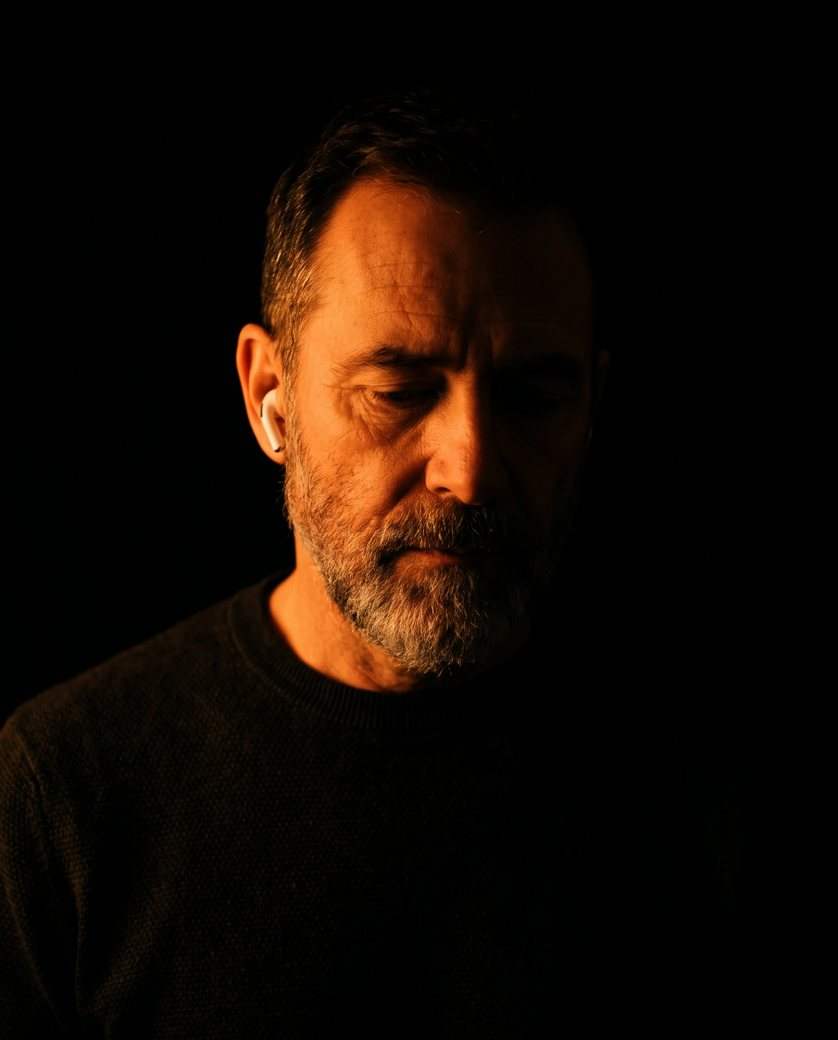
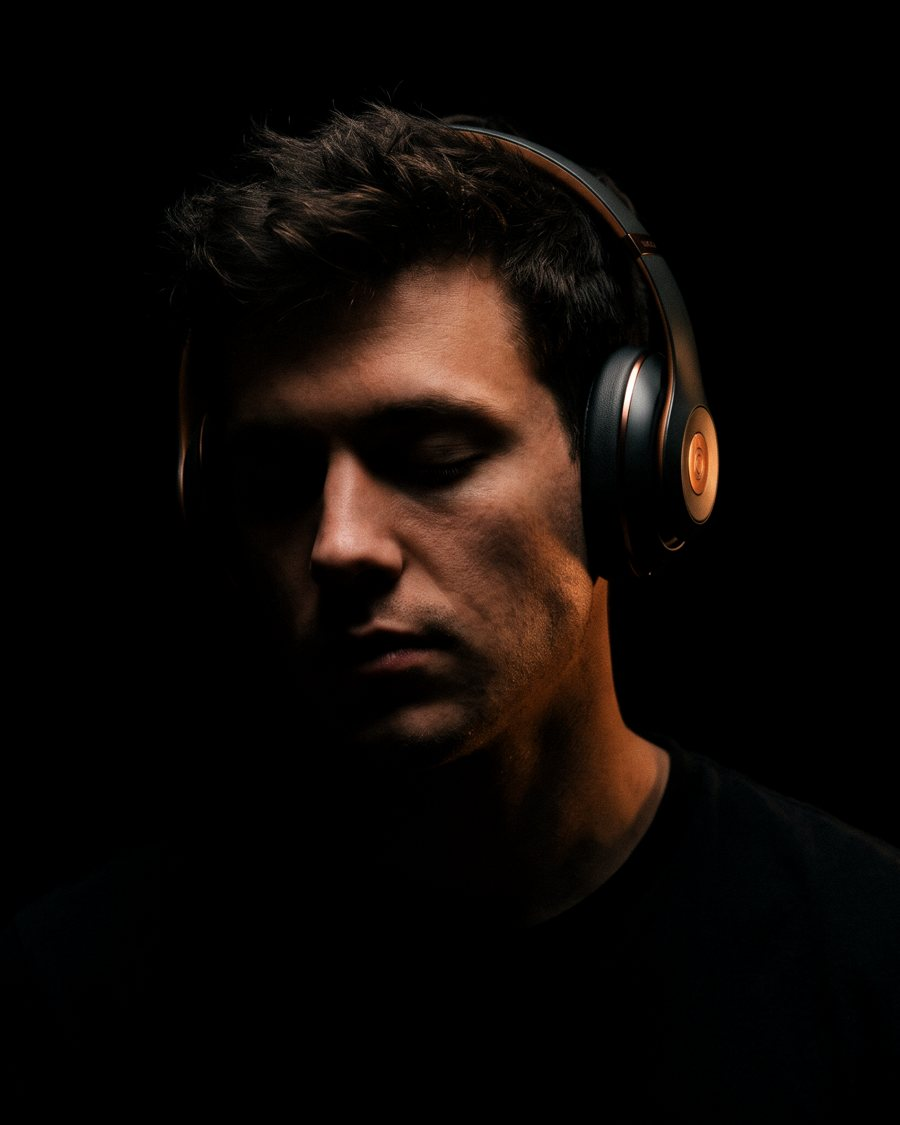
landing: style pass with same-kind original imagery and heavier display type
Claude-Session: https://claude.ai/code/session_014KKccVSMXmUfLjUq5WpadJ

diff --git a/landing/src/App.jsx b/landing/src/App.jsx
@@ -142,25 +142,47 @@ function Dock() {
   );
 }
 
-const PALETTE = ['#e9e3d6', '#3a6df0', '#d84a3a', '#f2c94c', '#7c5cff', '#2bb673', '#ff7a1a', '#14a3c7', '#b83280', '#9aa5b1', '#56ccf2', '#c0392b'];
+const PALETTE = ['#e9e3d6', '#3a6df0', '#d84a3a', '#f2c94c', '#7c5cff', '#2bb673', '#ff7a1a', '#14a3c7', '#b83280', '#9aa5b1', '#56ccf2', '#c0392b', '#111111', '#f5f5f5'];
+// Original marks for the integration chips (abstract shapes, not real brand logos).
+const MARKS = [
+  (c) => <circle cx="12" cy="12" r="5" fill={c} />,
+  (c) => <path d="M12 6 18 17H6Z" fill={c} />,
+  (c) => <rect x="7" y="7" width="10" height="10" rx="2.5" fill={c} />,
+  (c) => <path d="M5 14c2.5-5 4.5-5 7 0s4.5 5 7 0" stroke={c} strokeWidth="2.4" fill="none" strokeLinecap="round" />,
+  (c) => <path d="M7 17V9M12 17V6M17 17v-5" stroke={c} strokeWidth="2.6" strokeLinecap="round" />,
+  (c) => <circle cx="12" cy="12" r="5.5" stroke={c} strokeWidth="2.6" fill="none" />,
+  (c) => <path d="M12 5.5l1.9 4.3 4.6.4-3.5 3 1.1 4.6L12 15.4 7.9 17.8 9 13.2l-3.5-3 4.6-.4z" fill={c} />,
+  (c) => <path d="M6 12h12M12 6v12" stroke={c} strokeWidth="2.6" strokeLinecap="round" />,
+  (c) => <path d="M6.5 16.5 17.5 7.5M6.5 7.5h5M12.5 16.5h5" stroke={c} strokeWidth="2.4" strokeLinecap="round" />,
+  (c) => <path d="M12 5a7 7 0 1 0 7 7h-7z" fill={c} />,
+];
+const TOOLS = [I.Calendar, I.Inbox, I.Bookmark, I.Compass, I.Mic, I.Gear, I.Home, I.Search, I.Sparkle];
 function Orbit({ ring }) {
-  const rows = [
-    [200, 5], [0, 7], [56, 13], [112, 15], [168, 15], [224, 15], [280, 13], [336, 11], [392, 7],
-  ];
+  const rows = [[0, 9], [56, 13], [112, 15], [168, 15], [224, 15], [280, 13], [336, 11], [392, 7]];
   let seed = 7;
   const rnd = () => (seed = (seed * 9301 + 49297) % 233280) / 233280;
-  const glyphs = 'ABDEFGHJKMNPRSTVWXZ';
   return (
     <div className="orbit" aria-hidden="true">
-      {rows.map(([top, n], r) => (
-        <div className="orbit-row" key={r} style={{ top: r === 0 ? 0 : top }}>
-          {Array.from({ length: n }, (_, k) => {
-            const c = PALETTE[Math.floor(rnd() * PALETTE.length)];
-            const g = glyphs[Math.floor(rnd() * glyphs.length)];
-            return <div className="chip" key={k}><i style={{ background: c, color: c === '#e9e3d6' || c === '#f2c94c' ? '#111' : '#fff' }}>{g}</i><span /></div>;
-          })}
-        </div>
-      ))}
+      {rows.map(([top, n], r) => {
+        const Tool = TOOLS[r % TOOLS.length];
+        return (
+          <div className="orbit-row" key={r} style={{ top }}>
+            {Array.from({ length: n }, (_, k) => {
+              const bg = PALETTE[Math.floor(rnd() * PALETTE.length)];
+              const light = ['#e9e3d6', '#f2c94c', '#f5f5f5', '#56ccf2'].includes(bg);
+              const mark = MARKS[Math.floor(rnd() * MARKS.length)];
+              return (
+                <div className="chip" key={k}>
+                  <i style={{ background: `radial-gradient(circle at 35% 30%, ${bg}, color-mix(in srgb, ${bg} 70%, #000))` }}>
+                    <svg width="18" height="18" viewBox="0 0 24 24">{mark(light ? '#121212' : '#ffffff')}</svg>
+                  </i>
+                  <b><Tool size={13} /></b>
+                </div>
+              );
+            })}
+          </div>
+        );
+      })}
       <div className="ring" style={{ '--ring': ring }}><div className="ring-core"><I.Logo /></div></div>
     </div>
   );
@@ -221,7 +243,7 @@ function Monitor() {
         <p className="lede reveal">Navi lays fixed commitments and flexible work side by side, so focus time and rest both land on the calendar early.</p>
         <div className="monitor reveal">
           <div className="mon-bezel">
-            <div className="mon-screen" style={{ backgroundImage: `url(${img('wall-lake.jpg')})` }}>
+            <div className="mon-screen" style={{ backgroundImage: `url(${img('wall-highland.jpg')})` }}>
               <div className="mon-menubar"><b>Navi</b><span>File</span><span>Edit</span><span>View</span><span>Window</span><span>Help</span><span style={{ marginLeft: 'auto' }}>Tue Nov 4 9:41 AM</span></div>
               <div className="mon-window"><WeekWindow /></div>
             </div>

diff --git a/landing/src/styles.css b/landing/src/styles.css
@@ -51,8 +51,8 @@ img { display: block; max-width: 100%; }
   margin: 0;
   font-size: 48px;
   line-height: 1.1;
-  font-weight: 600;
-  letter-spacing: -0.022em;
+  font-weight: 660;
+  letter-spacing: -0.026em;
   background: var(--grad-head);
   -webkit-background-clip: text;
   background-clip: text;
@@ -126,7 +126,7 @@ img { display: block; max-width: 100%; }
 /* ---------- Dock ---------- */
 .dock-sec { position: relative; padding-top: 215px; height: 1020px; }
 .dock-stage { position: relative; height: 740px; margin-top: 0; }
-.sculpture { position: absolute; left: 50%; top: 33px; width: 500px; height: 651px; transform: translateX(-50%); background-size: contain; background-repeat: no-repeat; background-position: center bottom; -webkit-mask-image: radial-gradient(closest-side, #000 80%, transparent 100%); mask-image: radial-gradient(closest-side, #000 80%, transparent 100%); }
+.sculpture { position: absolute; left: 50%; top: 23px; width: 466px; height: 647px; transform: translateX(-50%); background-size: contain; background-repeat: no-repeat; background-position: center bottom; -webkit-mask-image: radial-gradient(closest-side, #000 80%, transparent 100%); mask-image: radial-gradient(closest-side, #000 80%, transparent 100%); }
 .floor { position: absolute; left: 50%; bottom: 20px; width: 1000px; height: 1px; transform: translateX(-50%); background: linear-gradient(90deg, transparent, rgba(255,255,255,.07), transparent); }
 .dock { position: absolute; left: 122px; top: 264px; display: flex; align-items: center; gap: 32px; }
 .dock-bar { display: flex; align-items: center; gap: 25px; height: 115px; padding: 0 18px; border-radius: 99px; background: linear-gradient(180deg, rgba(70,70,70,.72), rgba(40,40,40,.72)); border: 1px solid rgba(255,255,255,.14); -webkit-backdrop-filter: blur(18px) saturate(1.2); backdrop-filter: blur(18px) saturate(1.2); box-shadow: inset 0 1px 0 rgba(255,255,255,.12), rgba(0,0,0,.6) 0 20px 60px; }
@@ -163,8 +163,8 @@ img { display: block; max-width: 100%; }
 .orbit { position: absolute; left: 50%; top: 457px; width: 1400px; height: 470px; transform: translateX(-50%); -webkit-mask-image: radial-gradient(48% 50% at 50% 50%, #000 40%, transparent 100%); mask-image: radial-gradient(48% 50% at 50% 50%, #000 40%, transparent 100%); }
 .orbit-row { position: absolute; left: 0; right: 0; display: flex; justify-content: center; gap: 22px; }
 .chip { display: flex; align-items: center; gap: 4px; height: 38px; padding: 0 10px 0 4px; border-radius: 99px; background: #101010; }
-.chip i { width: 30px; height: 30px; border-radius: 50%; display: grid; place-items: center; font-style: normal; font-size: 13px; font-weight: 700; }
-.chip span { width: 22px; height: 14px; border-radius: 4px; background: #232323; }
+.chip i { width: 30px; height: 30px; border-radius: 50%; display: grid; place-items: center; font-style: normal; box-shadow: inset 0 1px 0 rgba(255,255,255,.18); }
+.chip b { width: 22px; height: 22px; display: grid; place-items: center; color: #5a5a5a; }
 .ring { position: absolute; left: 50%; top: 50%; width: 170px; height: 170px; margin: -85px 0 0 -85px; border-radius: 50%; background: #000; box-shadow: 0 0 0 6px var(--ring, #479ffa), 0 0 40px 12px var(--ring, #479ffa), 0 0 120px 30px color-mix(in srgb, var(--ring, #479ffa) 45%, transparent); transition: box-shadow 1.2s ease; display: grid; place-items: center; z-index: 2; }
 .ring-core { width: 64px; height: 64px; border-radius: 50%; display: grid; place-items: center; background: var(--ring, #479ffa); color: #061007; transition: background-color 1.2s ease; }
 .routines { position: absolute; left: 50%; top: 520px; width: 760px; transform: translateX(-50%); display: grid; grid-template-columns: 1fr 1fr; gap: 16px; }

diff --git a/landing/src/mockups.jsx b/landing/src/mockups.jsx
@@ -116,7 +116,7 @@ export function CommitmentsCard() {
     <div style={{ position: 'absolute', inset: 0, background: 'radial-gradient(120% 60% at 40% 105%, rgba(150,40,50,.55) 0%, rgba(80,20,25,.25) 40%, transparent 70%), #0b0b0b' }}>
       {PEOPLE.map(([n, d, a, ini, c], k) => (
         <div key={n} style={{ position: 'absolute', left: 38, right: 40, top: 44 + k * 103, height: 70, display: 'flex', alignItems: 'center', borderBottom: k < 4 ? '1px solid rgba(255,255,255,.05)' : 0, paddingBottom: 30, boxSizing: 'content-box', opacity: k === 4 ? 0.45 : 1 }}>
-          <span style={{ width: 66, height: 66, borderRadius: '50%', display: 'grid', placeItems: 'center', background: `radial-gradient(circle at 35% 30%, ${c}, #111 120%)`, fontSize: 18, fontWeight: 600, color: '#fff', border: '2px solid #222' }}>{ini}</span>
+          <span style={{ width: 66, height: 66, borderRadius: '50%', display: 'grid', placeItems: 'center', background: k < 4 ? `#1a1a1a url(./img/avatar-${k + 1}.jpg) center/cover` : `radial-gradient(circle at 35% 30%, ${c}, #111 120%)`, fontSize: 18, fontWeight: 600, color: '#fff', border: '2px solid #222', boxShadow: 'rgba(0,0,0,.6) 0 4px 14px' }}>{k < 4 ? '' : ini}</span>
           <span style={{ marginLeft: 22, flex: 1 }}>
             <span style={{ display: 'block', fontSize: 20, fontWeight: 600, letterSpacing: '-0.01em' }}>{n}</span>
             <span style={{ display: 'block', fontSize: 15, color: '#8a8a8a', marginTop: 4 }}>{d}</span>

diff --git a/landing/PROGRESS.md b/landing/PROGRESS.md
@@ -32,6 +32,8 @@ Separate from the Navi app. Self-contained static site in `landing/`, published 
 - 2026-11-04: Refero research done. Reference site gone; blocked on reference captures.
 - 2026-11-04: Found Refero recording; tracked scroll stops; stitched page; wrote section notes.
 - 2026-11-04: Built page, generated assets, two comparison passes (0.55 → 0.84), tests, artifact v1.
+- 2026-11-04: Style pass: original same-kind imagery (rough stone render, headphone portrait, highland wallpaper, fictional avatars), logo-like orbit chips with original marks, heavier headlines. Score 0.86. Artifact v2.
+- Decision (user-facing): reference visual style is matched; reference text, photos, screenshots and logos are never copied.
 
 ## How to verify (desktop)
 1. `cd landing && npm run build && npm test`
